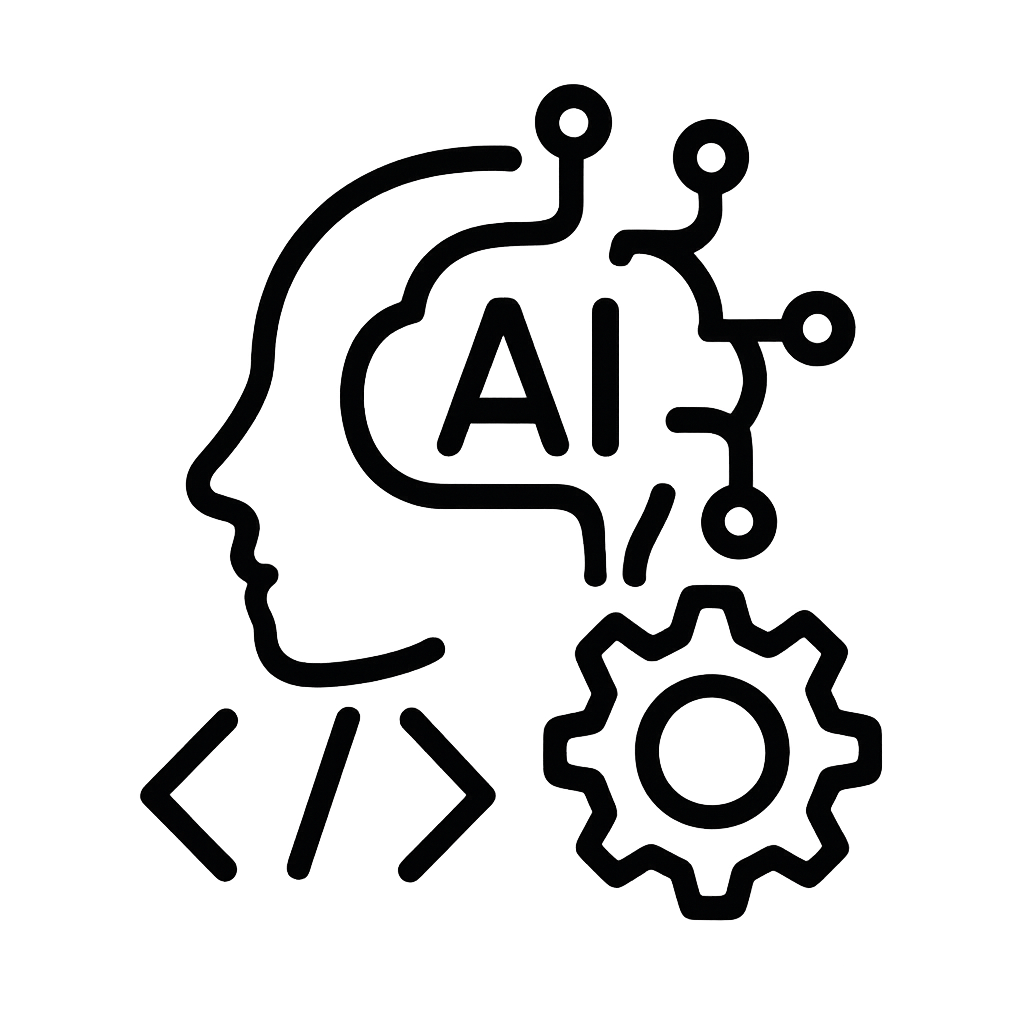
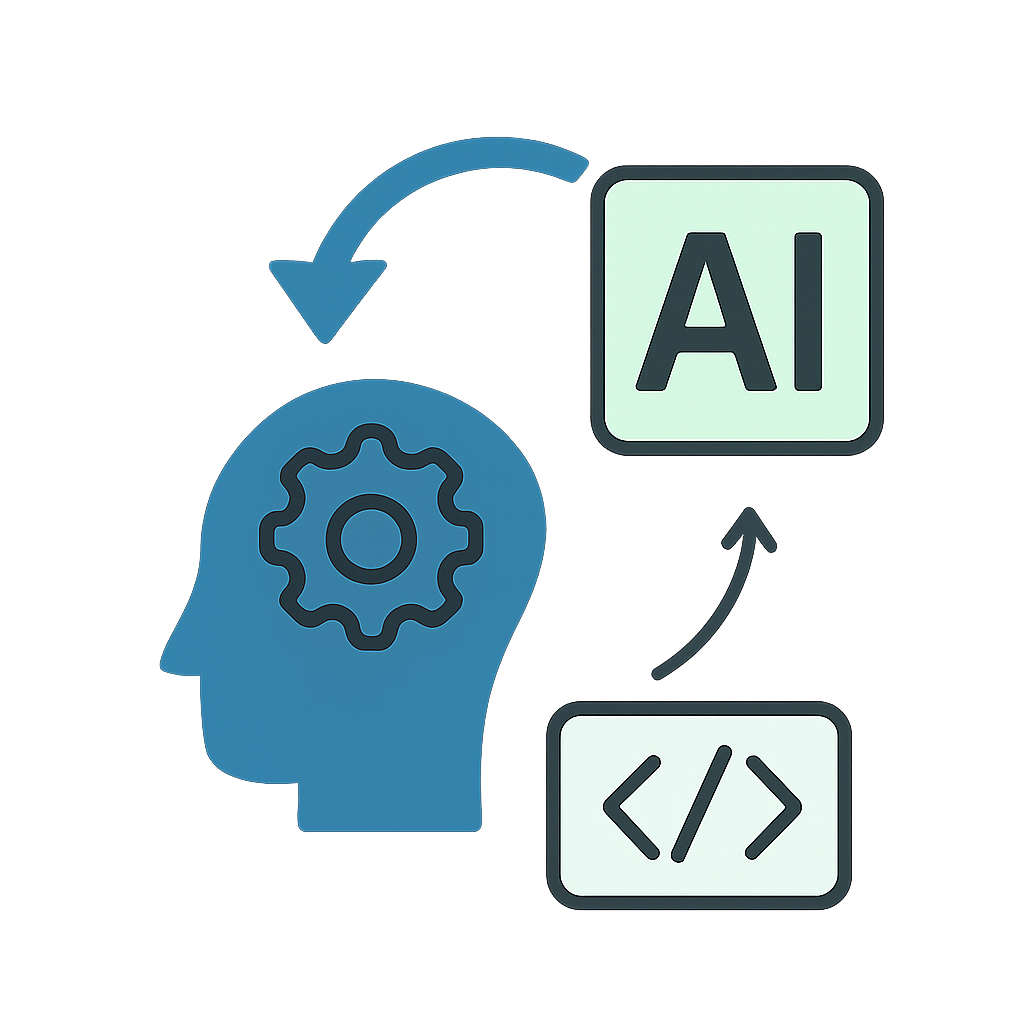
improvements

diff --git a/portfolio-frontend/src/pages/Engagements.jsx b/portfolio-frontend/src/pages/Engagements.jsx
@@ -10,7 +10,6 @@ const Engagements = () => {
   const [isClipped, setIsClipped] = useState({});
   // Support multiple engagements (array) while remaining backwards-compatible
   const engagementsRoot = t('engagements') || {};
-  const thriftImageSrc = engagementsRoot.thriftImageSrc;
   const items = Array.isArray(engagementsRoot.items)
     ? engagementsRoot.items
     : [
@@ -28,11 +27,7 @@ const Engagements = () => {
           artworkImageAlts: engagementsRoot.artworkImageAlts || engagementsRoot.merchImageAlts || [],
           creativePostsHeading: engagementsRoot.creativePostsHeading,
           creativePostsIntro: engagementsRoot.creativePostsIntro,
-          thriftHeading: engagementsRoot.thriftHeading,
-          thriftStats: engagementsRoot.thriftStats,
-          thriftStatsLines: engagementsRoot.thriftStatsLines || [],
-          thriftImageSrcs: engagementsRoot.thriftImageSrcs || [],
-          thriftImageAlts: engagementsRoot.thriftImageAlts || [],
+          events: engagementsRoot.events || [],
           leadershipHeading: engagementsRoot.leadershipHeading,
           leadershipBullets: engagementsRoot.leadershipBullets || [],
           creativeReelsHeading: engagementsRoot.creativeReelsHeading,
@@ -271,38 +266,42 @@ const Engagements = () => {
             <section className="creative-posts">
               <h2>{item.creativePostsHeading}</h2>
               <p>{item.creativePostsIntro}</p>
-              <h3>{item.thriftHeading}</h3>
-              <p>{item.thriftStats}</p>
-              <div className="thrift-content">
-                <div className="thrift-stats">
-                  {(item.thriftStatsLines || []).map((line, idx) => {
-                    const [num, ...rest] = String(line).split(' ');
-                    return (
-                      <h3 key={idx}>
-                        <strong>{num}</strong> {rest.join(' ')}
-                      </h3>
-                    );
-                  })}
-                </div>
-                <div className="thrift-image-container">
-                  <div className="thrift-gallery">
-                    <img
-                      src={resolvePath(item.thriftImageSrc)}
-                      alt={item.thriftImageAlt || ''}
-                      className="thrift-card"
-                    />
+              {(item.events || []).map((event, eventIdx) => (
+                <div key={eventIdx} className="event-section">
+                  <h3>{event.heading}</h3>
+                  <p>{event.stats}</p>
+                  <div className="event-content">
+                    <div className="event-stats">
+                      {(event.statsLines || []).map((line, idx) => {
+                        const [num, ...rest] = String(line).split(' ');
+                        return (
+                          <h3 key={idx}>
+                            <strong>{num}</strong> {rest.join(' ')}
+                          </h3>
+                        );
+                      })}
+                    </div>
+                    <div className="event-image-container">
+                      <div className="event-gallery">
+                        <img
+                          src={resolvePath(event.imageSrc)}
+                          alt={event.imageAlt || ''}
+                          className="event-card"
+                        />
+                      </div>
+                      <a 
+                        href="https://www.instagram.com/rcfashiongroup/?utm_source=ig_web_button_share_sheet&igsh=ZDNlZDc0MzIxNw%3D%3D#" 
+                        target="_blank" 
+                        rel="noreferrer noopener" 
+                        className="event-more-btn"
+                        aria-label="More Posts"
+                      >
+                        <span>More Posts</span>
+                      </a>
+                    </div>
                   </div>
-                  <a 
-                    href="https://www.instagram.com/rcfashiongroup/?utm_source=ig_web_button_share_sheet&igsh=ZDNlZDc0MzIxNw%3D%3D#" 
-                    target="_blank" 
-                    rel="noreferrer noopener" 
-                    className="thrift-more-btn"
-                    aria-label="More Posts"
-                  >
-                    <span>More Posts</span>
-                  </a>
                 </div>
-              </div>
+              ))}
             </section>
           )}
 

diff --git a/portfolio-frontend/src/pages/Engagements.css b/portfolio-frontend/src/pages/Engagements.css
@@ -266,43 +266,44 @@
   height: auto;
 }
 
-.thrift-content {
+.event-content {
   display: flex;
   flex-direction: column;
   gap: 2rem;
   margin-top: 1.5rem;
+  margin-bottom: 1.5rem;
 }
 
-.thrift-stats {
+.event-stats {
   display: flex;
   flex-direction: column;
   gap: 1rem;
 }
 
-.thrift-stats h3 {
+.event-stats h3 {
   margin: 0;
 }
 
-.thrift-image-container {
+.event-image-container {
   display: flex;
   flex-direction: column;
   align-items: center;
   gap: 1rem;
 }
 
-.thrift-gallery {
+.event-gallery {
   display: flex;
   justify-content: center;
 }
 
-.thrift-card {
+.event-card {
   border-radius: 12px;
   box-shadow: 0 2px 10px #dadee966;
   background: #f5f5f8;
   max-width: 100%;
 }
 
-.thrift-more-btn {
+.event-more-btn {
   display: inline-block;
   padding: 10px 24px;
   background: transparent;
@@ -317,28 +318,28 @@
   text-align: center;
 }
 
-.thrift-more-btn:hover {
+.event-more-btn:hover {
   background: #000;
   color: #fff;
 }
 
-.thrift-more-btn span {
+.event-more-btn span {
   display: block;
 }
 
 @media (min-width: 768px) {
-  .thrift-content {
+  .event-content {
     flex-direction: row;
     align-items: center;
     gap: 3rem;
   }
 
-  .thrift-stats {
+  .event-stats {
     flex: 0 0 auto;
     max-width: 350px;
   }
 
-  .thrift-image-container {
+  .event-image-container {
     flex: 1;
   }
 }

diff --git a/portfolio-frontend/src/App.jsx b/portfolio-frontend/src/App.jsx
@@ -137,7 +137,6 @@ function SubdomainRedirectWrapper() {
       <Route path="/" element={<Landing />} />
 
       {/* Person-specific portfolios */}
-      <Route path="/p/:personId" element={<PersonLoader />} />
       <Route path="/p/:personId/*" element={<PersonLoader />} />
 
       {/* 404 fallback */}